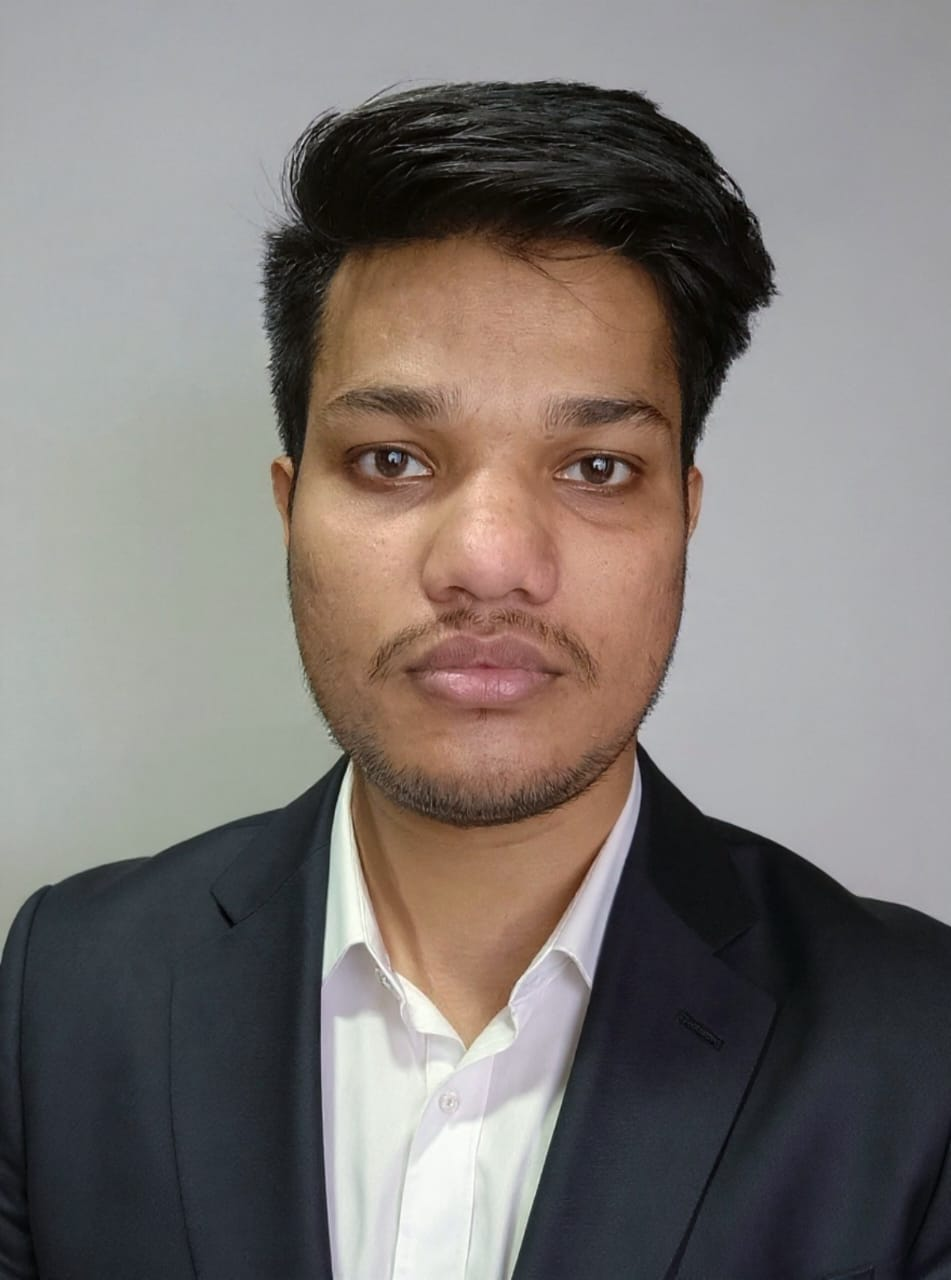
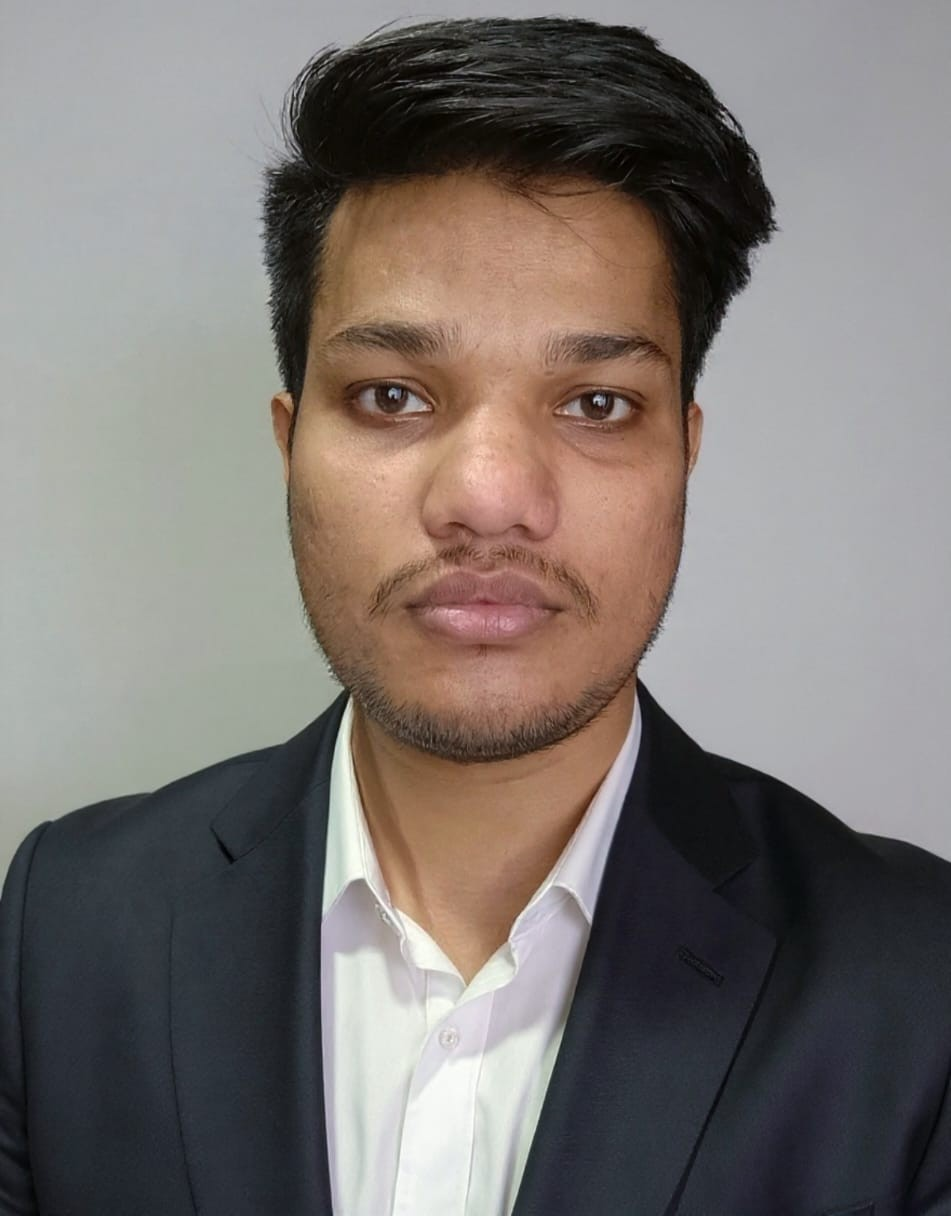
hero update

Changed region(s): [[0.0, 0.0, 1.0, 0.875], [0.5489, 0.9062, 0.5794, 0.9375], [0.2135, 0.6875, 0.244, 0.7188]]

diff --git a/components/hero-section.tsx b/components/hero-section.tsx
@@ -264,11 +264,11 @@ export function HeroSection() {
                   style={{ width: `${360 + i * 60}px`, height: `${360 + i * 60}px` }}
                 >
                   <div
-                    className={`absolute inset-0 rounded-full border-2 opacity-30`}
-                    style={{
-                      borderColor: ["#ff00ff", "#00ffff", "#ffff00"][i],
-                      borderStyle: "solid",
-                    }}
+                    className={`absolute inset-0 rounded-full opacity-30`} // border-2
+                  // style={{
+                  //   borderColor: ["#ff00ff", "#00ffff", "#ffff00"][i],
+                  //   borderStyle: "solid",
+                  // }}
                   />
                 </div>
               ))}
@@ -278,7 +278,7 @@ export function HeroSection() {
                 <img
                   src={personal.avatar || "/placeholder.svg"}
                   alt={personal.name}
-                  className="relative z-10 h-[300px] w-[300px] rounded-full border-4 object-cover border-white/20 shadow-2xl hover:scale-105 transition-all duration-700"
+                  className="relative z-10 h-[350px] w-[350px] rounded-full border-4 object-cover border-white/20 shadow-2xl hover:scale-105 transition-all duration-700 object-top"
                 />
               </div>
 
@@ -294,7 +294,7 @@ export function HeroSection() {
                     className="absolute"
                     style={{
                       top: "50%", left: "50%",
-                      transform: `translate(-50%, -50%) rotate(${item.angle}deg) translateX(180px) rotate(-${item.angle}deg)`,
+                      transform: `translate(-50%, -50%) rotate(${item.angle}deg) translateX(200px) rotate(-${item.angle}deg)`,
                     }}
                   >
                     <div className="text-3xl opacity-90 hover:scale-125 transition-transform cursor-pointer hover:opacity-100">
@@ -317,7 +317,7 @@ export function HeroSection() {
                     className="absolute"
                     style={{
                       top: "50%", left: "50%",
-                      transform: `translate(-50%, -50%) rotate(${item.angle}deg) translateX(210px) rotate(-${item.angle}deg)`,
+                      transform: `translate(-50%, -50%) rotate(${item.angle}deg) translateX(220px) rotate(-${item.angle}deg)`,
                     }}
                   >
                     <div className="text-3xl opacity-90 hover:scale-125 transition-transform cursor-pointer hover:opacity-100">
